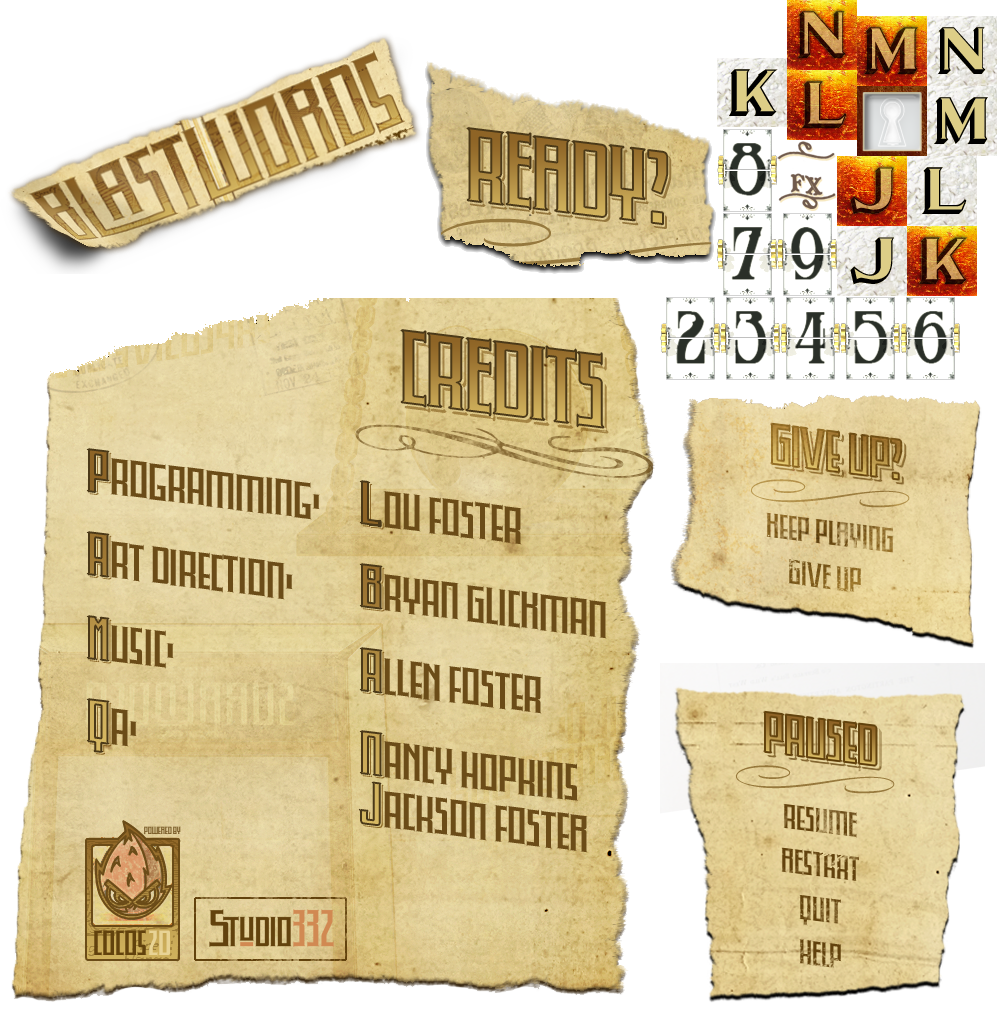
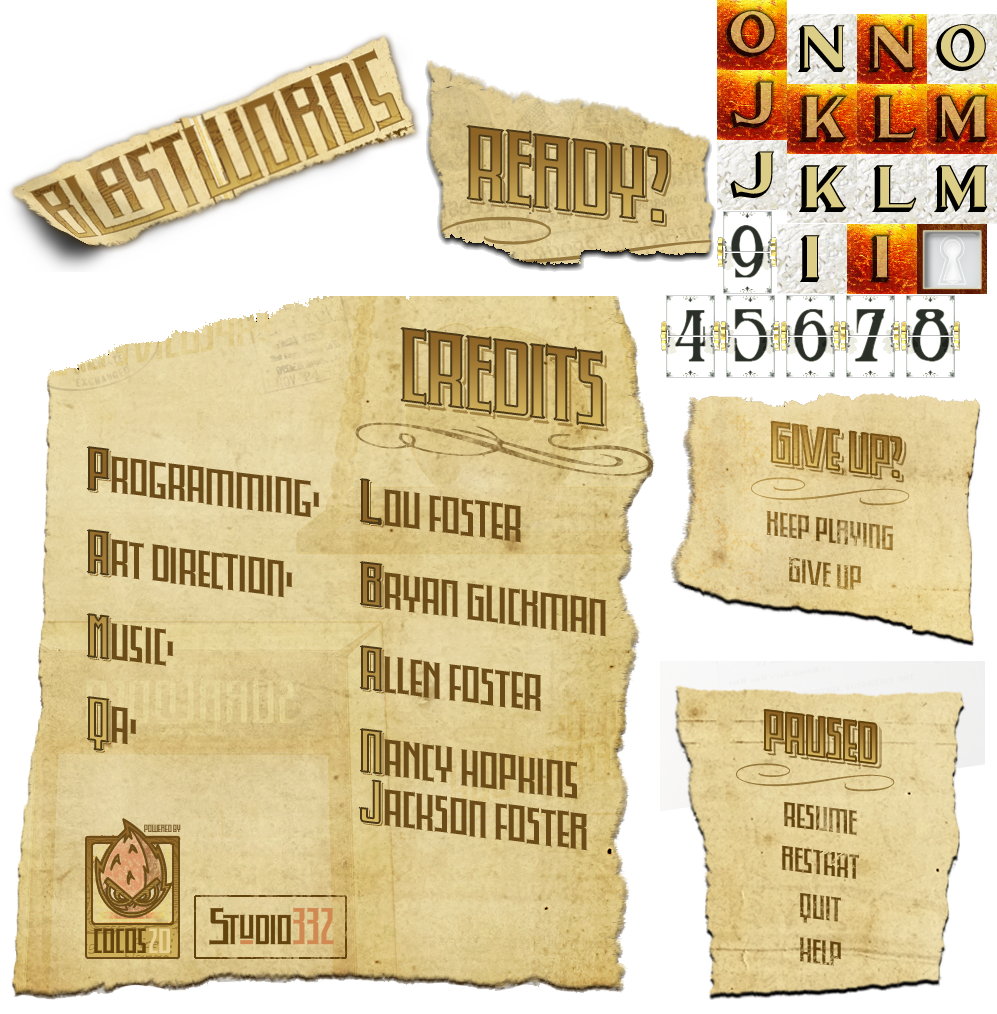
added blockers and wild

diff --git a/BlastWords/src/com/studio332/blastwords/model/BlastWordsGame.java b/BlastWords/src/com/studio332/blastwords/model/BlastWordsGame.java
@@ -138,20 +138,53 @@ public class BlastWordsGame {
       return this.timedModeDurationSecs;
    }
 
-   public LetterInfo newLetter() {
+   public LetterInfo newLetter(final int currWilds, int currBlockers) {
+      int maxWild = 1;
+      if ( this.mode.equals(Mode.CLEAR)) {
+         maxWild = 2;
+      }
+      
+      int maxBlockers = 3;
+      if ( this.mode.equals(Mode.TIMED)) {
+          maxBlockers = 5;
+      } else if (this.mode.equals(Mode.CLEAR)) {
+          maxBlockers = 4;
+      }
+      
+      // start with a normal draw
+      // TODO create letter stock. draw from it till empty. refill from pool )r something)
       this.lastDropTime = this.elapsedTime;
       Collections.shuffle(this.letterPool);
       Character character = this.letterPool.get(0);
       LetterInfo.Type type = Type.NORMAL;
+      
+      // first see if it should lock
       if (this.rand.nextInt(100) <= LOCK_THRESHOLD) {
          type = Type.LOCKED;
+      } else {
+         // next, check for turning it into a special tile
+         if ( currBlockers < maxBlockers && this.rand.nextInt(100) <= 15 ) {
+            character = LetterInfo.BLOCKER_CHAR;
+            type = Type.BLOCKER;
+         } else if ( currWilds < maxWild && this.rand.nextInt(100) <= 5 ) {
+            character = LetterInfo.WILD_CHAR;
+            type = Type.WILD;
+         }
       }
       return new LetterInfo(type, character);
    }
 
    public boolean isWord(final String word) {
-      if (this.words.contains(word.toLowerCase())) {
-         return true;
+      if ( word.indexOf(LetterInfo.BLOCKER_CHAR) > -1 ) {
+         return false;
+      }
+
+      String lcWordRegex = word.toLowerCase();
+      lcWordRegex = lcWordRegex.replaceAll("\\?", "\\\\S");
+      for ( String dictWord : this.words) {
+         if ( dictWord.matches(lcWordRegex) ) {
+            return true;
+         }
       }
 
       this.score -= 15;
@@ -246,14 +279,22 @@ public class BlastWordsGame {
    }
 
    public void scoreWord(String word, int lockedCount) {
-      int wordScore = 10 * word.length();
-      if (word.length() >= 5) {
+      int wildCnt = 0;
+      for (int i=0; i<word.length();i++) {
+         if ( word.charAt(i) == LetterInfo.WILD_CHAR ) {
+            wildCnt++;
+         }
+      }
+      
+      int wordLen = word.length() - wildCnt;
+      int wordScore = 10 * wordLen;
+      if (wordLen >= 5) {
          wordScore += 20; // doubled ... was 10, 20, 40
       }
-      if (word.length() >= 6) {
+      if (wordLen >= 6) {
          wordScore += 40;
       }
-      if (word.length() == 7) {
+      if (wordLen == 7) {
          wordScore += 80;
       }
 
@@ -263,8 +304,8 @@ public class BlastWordsGame {
 
       // track the number of times each sized word is created
       this.score += wordScore;
-      int oldCnt = this.wordSizeCount.get(word.length());
+      int oldCnt = this.wordSizeCount.get(wordLen);
       oldCnt++;
-      this.wordSizeCount.put(word.length(), oldCnt);
+      this.wordSizeCount.put(wordLen, oldCnt);
    }
 }

diff --git a/BlastWords/src/com/studio332/blastwords/screens/GameScreen.java b/BlastWords/src/com/studio332/blastwords/screens/GameScreen.java
@@ -30,6 +30,7 @@ import com.studio332.blastwords.model.BlastWordsGame;
 import com.studio332.blastwords.model.BlastWordsGame.Mode;
 import com.studio332.blastwords.model.BlastWordsGame.State;
 import com.studio332.blastwords.model.LetterInfo;
+import com.studio332.blastwords.model.LetterInfo.Type;
 import com.studio332.blastwords.model.Settings;
 import com.studio332.blastwords.objects.Blaster;
 import com.studio332.blastwords.objects.Bomb;
@@ -238,6 +239,24 @@ public class GameScreen extends AbstractScreen implements Blaster.Listener, Game
          }
       }));
    }
+   
+   private int countTileType( Type tileType) {
+      int cnt = 0;
+      for ( Tile tile : this.tiles ) {
+         if ( tile.getType().equals(tileType ) ) {
+            cnt++;
+         }
+      }
+      return cnt;
+  }
+
+  // Get a new letter and ensure that there are not too many blockers
+  private LetterInfo pickNewLetter() {
+     int blockerCnt = countTileType(Type.BLOCKER);
+     int wildCnt = countTileType(Type.WILD);
+     LetterInfo info = this.gameModel.newLetter(wildCnt, blockerCnt);
+      return info;
+  }
 
    private void initBoard() {      
       int totalRows = NUM_ROWS;
@@ -251,7 +270,7 @@ public class GameScreen extends AbstractScreen implements Blaster.Listener, Game
          @Override
          public void run() {
             for (int i = 0; i < NUM_COLS; i++) {
-               LetterInfo info = gameModel.newLetter();
+               LetterInfo info = pickNewLetter();
                Tile tile = new Tile(info);
                if  ( tileW == -1 ) {
                   tileW = (int)tile.getWidth();
@@ -269,7 +288,7 @@ public class GameScreen extends AbstractScreen implements Blaster.Listener, Game
             }
          }
          
-      }, 0.0f, 0.075f, totalRows-1);
+      }, 0.0f, 0.175f, totalRows-1);
    }
 
    private void startGame() {
@@ -670,7 +689,7 @@ public class GameScreen extends AbstractScreen implements Blaster.Listener, Game
             float topRowY = BOARD_BOTTOM + 9 * tileH;
             int tileCnt = tiles.size();
             for (int i = 0; i < (70 - tileCnt); i++) {
-               LetterInfo info = gameModel.newLetter();
+               LetterInfo info = pickNewLetter();
                Tile tile = new Tile(info);
                while (col < 7) {
                   float colX = BOARD_LEFT + col * tileW;
@@ -698,7 +717,7 @@ public class GameScreen extends AbstractScreen implements Blaster.Listener, Game
          }
 
          if (this.gameModel.readyToDropTile()) {
-             Tile tile = new Tile( this.gameModel.newLetter() );
+             Tile tile = new Tile( pickNewLetter() );
              int col = this.rand.nextInt(7);
              if ( this.lastDropCol != -1 ) {
                 while ( col == this.lastDropCol) {

diff --git a/BlastWords/src/com/studio332/blastwords/objects/Tile.java b/BlastWords/src/com/studio332/blastwords/objects/Tile.java
@@ -30,6 +30,12 @@ public class Tile extends Image {
       this.info = info;
       
       String imgName = info.getCharacter().toString().toLowerCase()+"-off";
+      if ( info.getType().equals(Type.WILD)) {
+         imgName = "wild-off";
+      } else if ( info.getType().equals(Type.BLOCKER)) {
+         imgName = "blocker-off";
+      }
+      
       Image i = new Image(Assets.instance().getDrawable(imgName));
       setDrawable(i.getDrawable() );
       setWidth(i.getWidth());
@@ -73,18 +79,27 @@ public class Tile extends Image {
    public boolean isSelected() {
       return this.selected;
    }
+   
+   public Type getType() {
+      return this.info.getType();
+   }
 
    public void setSelected(boolean sel) {
       this.selected = sel;
       this.hold = false;
 
+      String imgName = this.info.getCharacter().toString().toLowerCase();
+      if ( info.getType().equals(Type.WILD)) {
+         imgName = "wild";
+      } else if ( info.getType().equals(Type.BLOCKER)) {
+         imgName = "blocker";
+      }
+      
       if (this.selected == false) {
-         String imgName = this.info.getCharacter().toString().toLowerCase()+"-off";
-         setDrawable(Assets.instance().getDrawable(imgName));
+         setDrawable(Assets.instance().getDrawable(imgName+"-off"));
       } else {
          SoundManager.instance().playSound(SoundManager.SELECT_TILE);
-         String imgName = this.info.getCharacter().toString().toLowerCase()+"-on";
-         setDrawable(Assets.instance().getDrawable(imgName));
+         setDrawable(Assets.instance().getDrawable(imgName+"-on"));
       }
    }
    
@@ -108,9 +123,17 @@ public class Tile extends Image {
    public Character getCharacter() {
       return this.info.getCharacter();
    }
+   
+   public boolean isBlocker() {
+      return this.info.getType().equals(Type.BLOCKER);
+   }
+   
+   public boolean isWild() {
+      return this.info.getType().equals(Type.WILD);
+   }
 
    public boolean isLocked() {
-      return this.info.getType().equals(Type.LOCKED);
+      return (isBlocker() || this.info.getType().equals(Type.LOCKED));
    }
 
    @Override

diff --git a/BlastWords/src/com/studio332/blastwords/model/LetterInfo.java b/BlastWords/src/com/studio332/blastwords/model/LetterInfo.java
@@ -1,9 +1,13 @@
 package com.studio332.blastwords.model;
 
 public class LetterInfo {
-   public enum Type {NORMAL, LOCKED}
+   public enum Type {NORMAL, LOCKED, WILD, BLOCKER}
    private final Type type;
    private final Character character;
+   
+   public static final Character BLOCKER_CHAR = ' ';
+   public static final Character WILD_CHAR = '?';
+
    
    public LetterInfo(Type t, Character c) {
       this.type = t;
